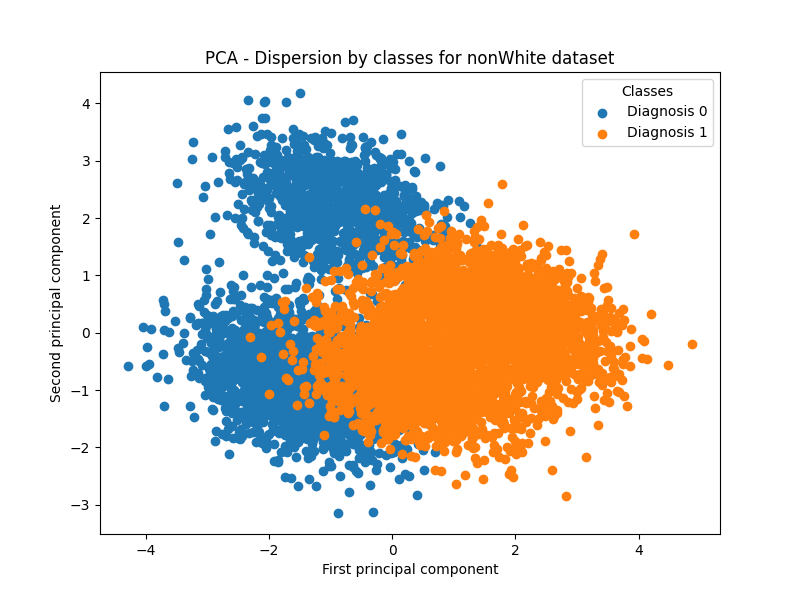
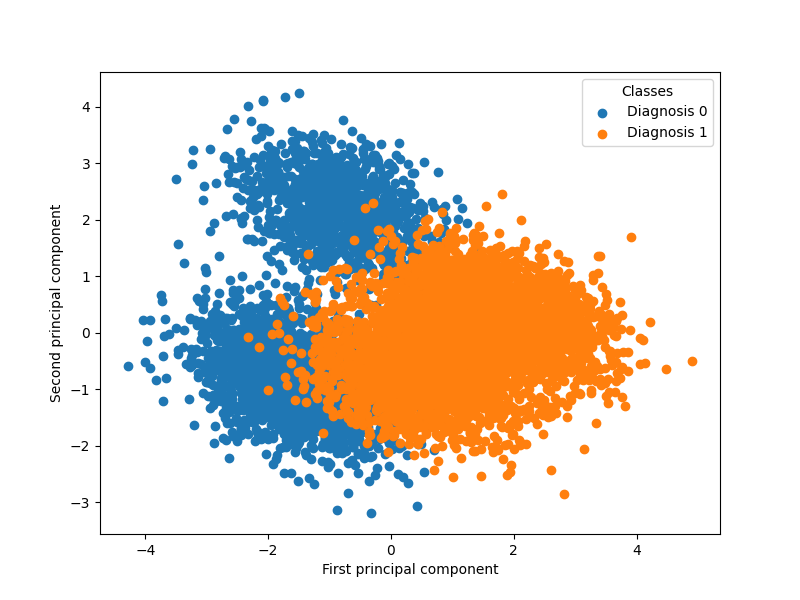
Removing title from graphics

diff --git a/IntersectionalBias/ECoL/graphics_PCA.py b/IntersectionalBias/ECoL/graphics_PCA.py
@@ -6,7 +6,7 @@ import matplotlib.pyplot as plt
 from sklearn.decomposition import PCA
 from sklearn.preprocessing import StandardScaler
 
-DATASET = 'male'
+DATASET = 'nonWhite'
 
 def createGraphic2D(feature_columns_scaled, target_column):
     pca = PCA(n_components=2)  # Reduce to 2 dimensions
@@ -27,7 +27,7 @@ def createGraphic2D(feature_columns_scaled, target_column):
 
     plt.xlabel("First principal component")
     plt.ylabel("Second principal component")
-    plt.title(f"PCA - Dispersion by classes for {DATASET} dataset")
+    #plt.title(f"PCA - Dispersion by classes for {DATASET} dataset")
     plt.savefig(f'graphics/graphics_PCA/PCA(2D)-{DATASET}.png')  
 
 
